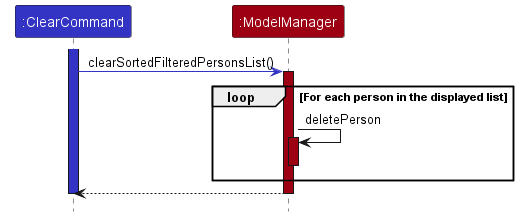
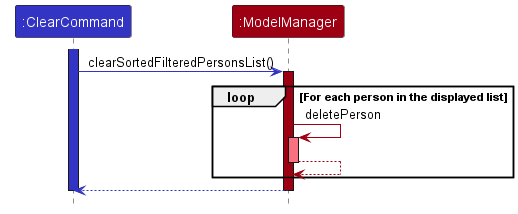
Update ClearCommand Sequence Diagram

diff --git a/docs/DeveloperGuide.md b/docs/DeveloperGuide.md
@@ -280,8 +280,8 @@ The `clear` feature is used to clear all persons from the displayed list in Empl
 
 #### Proposed Implementation
 When the `clear` command is executed, it will call `Model#clearSortedFilteredPersonList`.
-The method will loop through the filtered list and delete each person from the filtered list using the
-`Model#deletePerson`. This continues until the list is cleared.
+`Model#clearSortedFilteredPersonList` will loop through the persons in the filtered list and
+delete each person from the filtered list using `Model#deletePerson` until the list is cleared.
 
 ![ClearCommandSequenceDiagram](images/ClearCommandSequenceDiagram.png)
 
@@ -348,7 +348,7 @@ Priorities: High (must have) - `* * *`, Medium (nice to have) - `* *`, Low (unli
 | `* *`    | HR staff member                     | export and import employee details                                                                        | I can create backups and recover from data corruption                                 |
 | `*`      | HR staff member                     | set performance goals for employees                                                                       | I can align the employee with the company’s objectives.                               |
 | `*`      | HR staff member                     | use the application to create analytics that will give me insights into the employee's performances       | I can give proper recognition to employees with good performances                     |
-| `* *`    | careless HR staff member            | undo my last command                                                                                      | if there are any mistakes I can easily revert to a copy with no mistakes              |
+| `* *`    | careless HR staff member            | undo my last command                                                                                      | I can easily revert to a copy with no mistakes if I made mistakes                     |
 
 ### Use cases
 
